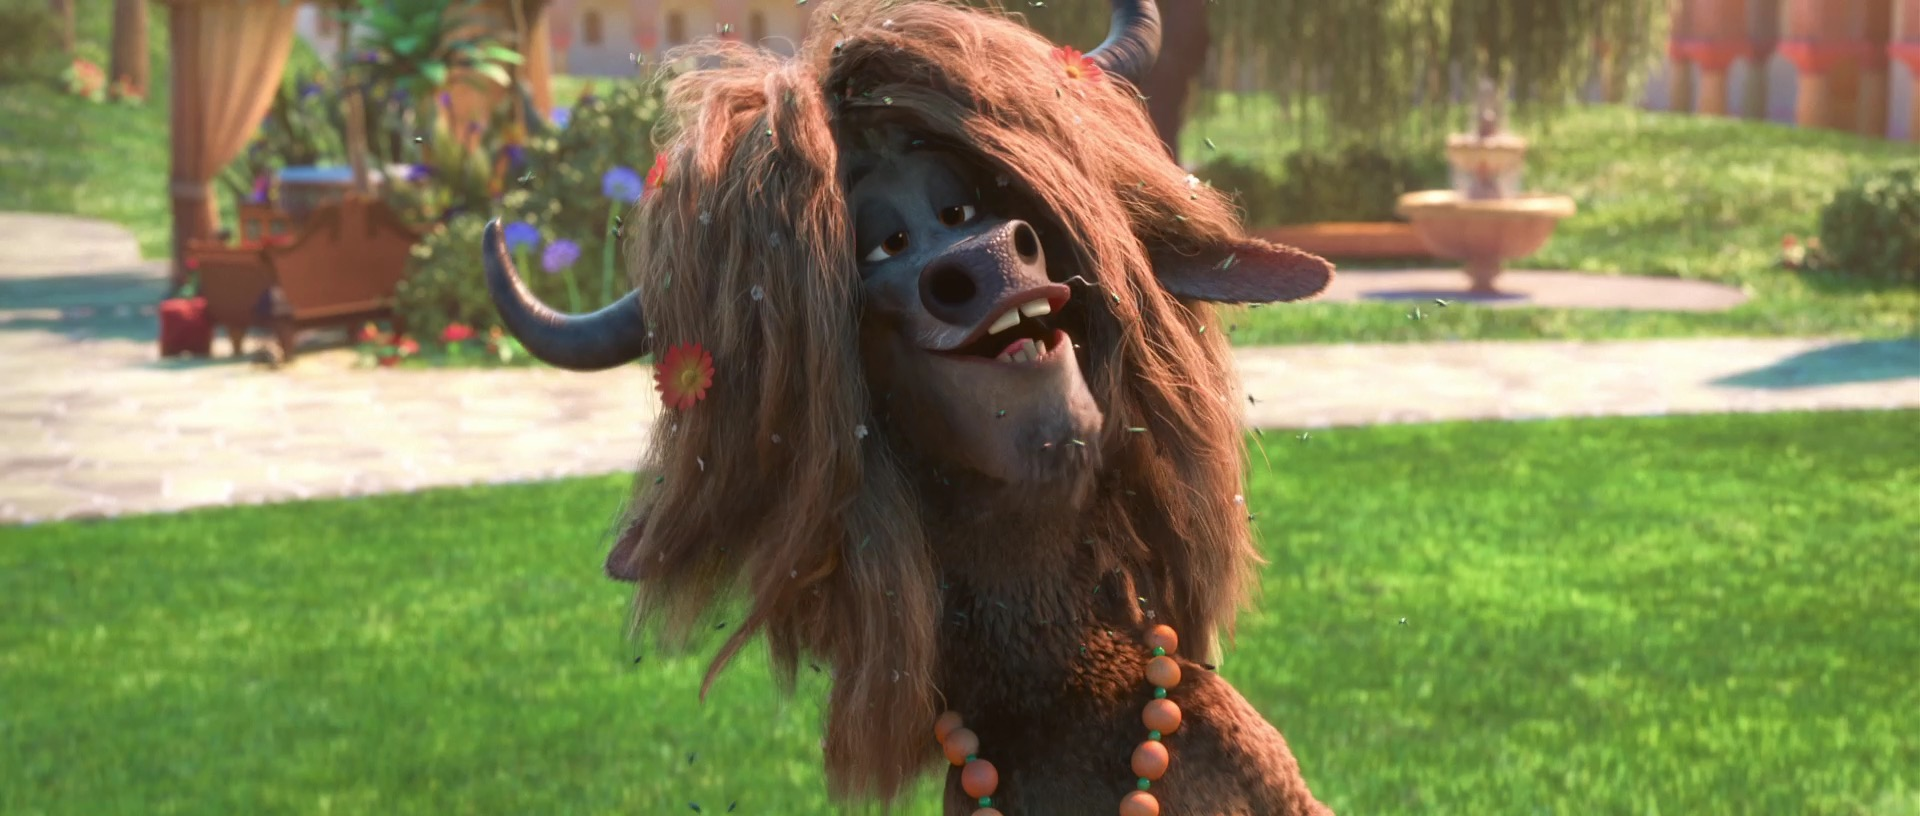
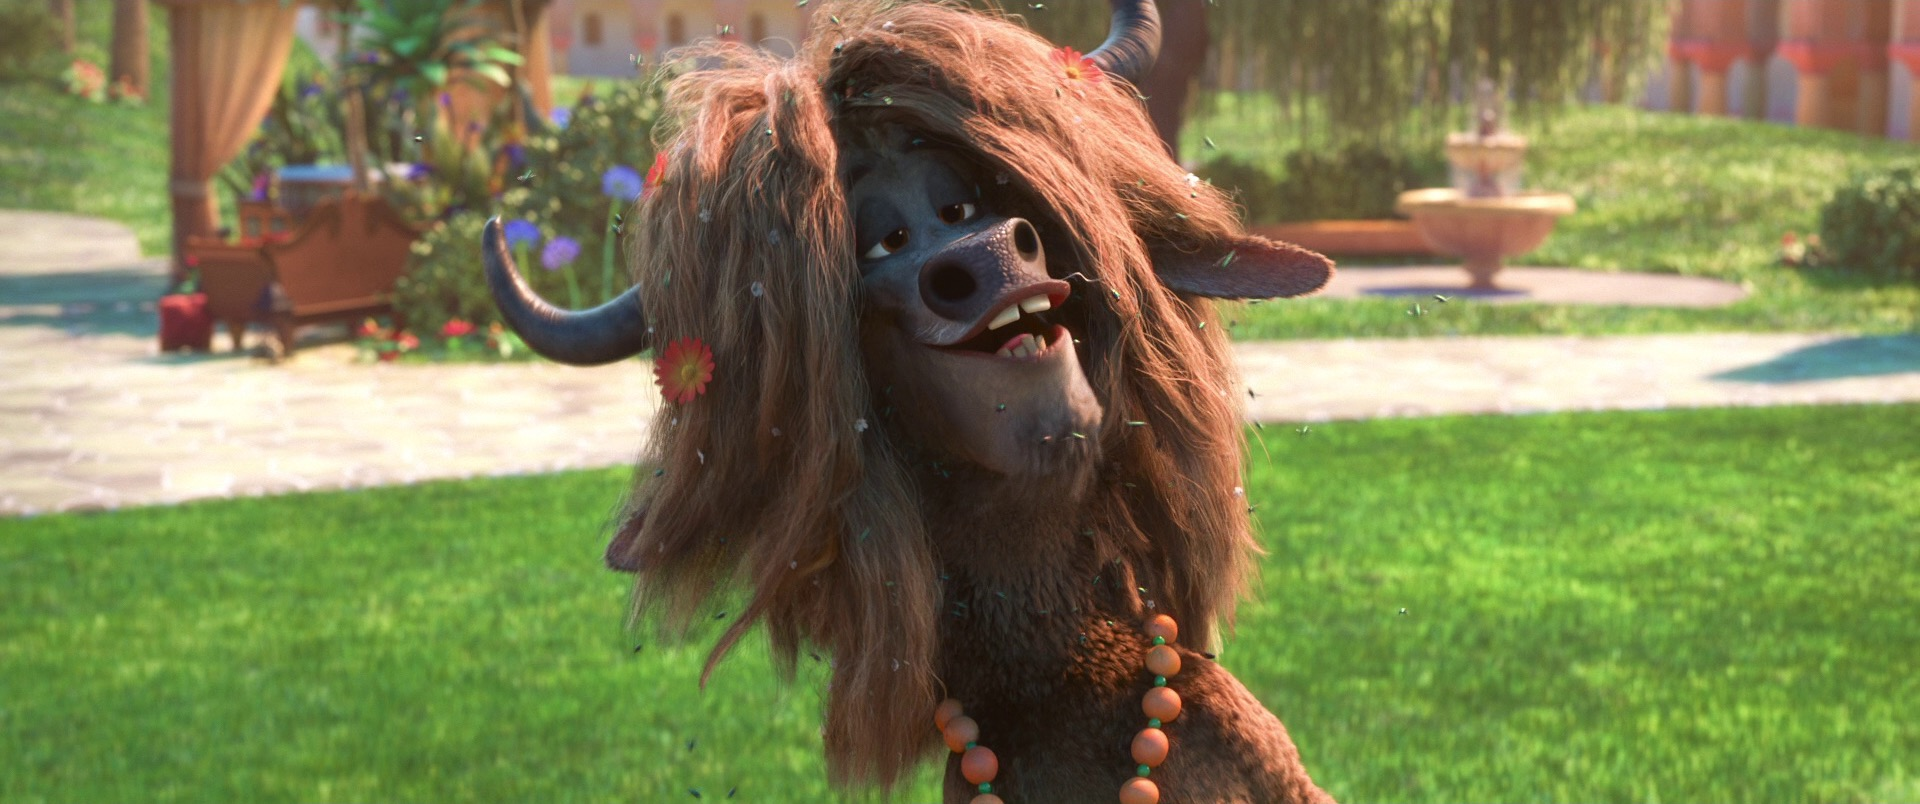
Upgraded image quality in Zootopia post and added some more images

diff --git a/_posts/2016-02-12-zootopia.md b/_posts/2016-02-12-zootopia.md
@@ -11,7 +11,7 @@ Zootopia is a striking film in every way. The story is fantastic and original an
 
 I can't go far into detail here (I'm sure we'll be presenting much more in-depth stuff at SIGGRAPH this year), but I think I can safely say that Zootopia is the most technically advanced animated film ever made to date. The fur and cloth (and cloth on top of fur!) systems on Zootopia are beyond anything I've ever seen, the sets and environments are simply ludicrous in both detail and scale, and of course the shading and lighting and rendering are jaw-dropping. Disney isn't paying me to write this on my personal blog, and I don't write any of this to make myself look grand either. I played only a small role, and really the amazing quality of the film is a testament to the capabilities of the hundreds of artists that actually made the final frames. I'm deeply humbled to see what amazing things great artists can do with the tools that my team makes.
 
-Okay, enough rambling. Here are some stills from the film, 100% rendered with Hyperion, of course. Go see the film on March 4th; these images only scratch the surface in conveying how gorgeous the film is.
+Okay, enough rambling. Here are some stills from the film, 100% rendered with Hyperion, of course. Go see the film; these images only scratch the surface in conveying how gorgeous the film is.
 
 [![]({{site.url}}/content/images/2016/Feb/preview/zoot_01.jpg)]({{site.url}}/content/images/2016/Feb/zoot_01.png)
 
@@ -27,9 +27,13 @@ Okay, enough rambling. Here are some stills from the film, 100% rendered with Hy
 
 [![]({{site.url}}/content/images/2016/Feb/preview/zoot_05.jpg)]({{site.url}}/content/images/2016/Feb/zoot_05.png)
 
+[![]({{site.url}}/content/images/2016/Feb/preview/zoot_40.jpg)]({{site.url}}/content/images/2016/Feb/zoot_40.png)
+
 [![]({{site.url}}/content/images/2016/Feb/preview/zoot_06.jpg)]({{site.url}}/content/images/2016/Feb/zoot_06.png)
 
 [![]({{site.url}}/content/images/2016/Feb/preview/zoot_07.jpg)]({{site.url}}/content/images/2016/Feb/zoot_07.png)
+
+[![]({{site.url}}/content/images/2016/Feb/preview/zoot_16.jpg)]({{site.url}}/content/images/2016/Feb/zoot_16.png)
 
 [![]({{site.url}}/content/images/2016/Feb/preview/zoot_08.jpg)]({{site.url}}/content/images/2016/Feb/zoot_08.png)
 
@@ -40,5 +44,55 @@ Okay, enough rambling. Here are some stills from the film, 100% rendered with Hy
 [![]({{site.url}}/content/images/2016/Feb/preview/zoot_12.jpg)]({{site.url}}/content/images/2016/Feb/zoot_12.png)
 
 [![]({{site.url}}/content/images/2016/Feb/preview/zoot_09.jpg)]({{site.url}}/content/images/2016/Feb/zoot_09.png)
+
+[![]({{site.url}}/content/images/2016/Feb/preview/zoot_33.jpg)]({{site.url}}/content/images/2016/Feb/zoot_33.png)
+
+[![]({{site.url}}/content/images/2016/Feb/preview/zoot_15.jpg)]({{site.url}}/content/images/2016/Feb/zoot_15.png)
+
+[![]({{site.url}}/content/images/2016/Feb/preview/zoot_17.jpg)]({{site.url}}/content/images/2016/Feb/zoot_17.png)
+
+[![]({{site.url}}/content/images/2016/Feb/preview/zoot_18.jpg)]({{site.url}}/content/images/2016/Feb/zoot_18.png)
+
+[![]({{site.url}}/content/images/2016/Feb/preview/zoot_41.jpg)]({{site.url}}/content/images/2016/Feb/zoot_41.png)
+
+[![]({{site.url}}/content/images/2016/Feb/preview/zoot_39.jpg)]({{site.url}}/content/images/2016/Feb/zoot_39.png)
+
+[![]({{site.url}}/content/images/2016/Feb/preview/zoot_19.jpg)]({{site.url}}/content/images/2016/Feb/zoot_19.png)
+
+[![]({{site.url}}/content/images/2016/Feb/preview/zoot_20.jpg)]({{site.url}}/content/images/2016/Feb/zoot_20.png)
+
+[![]({{site.url}}/content/images/2016/Feb/preview/zoot_21.jpg)]({{site.url}}/content/images/2016/Feb/zoot_21.png)
+
+[![]({{site.url}}/content/images/2016/Feb/preview/zoot_31.jpg)]({{site.url}}/content/images/2016/Feb/zoot_31.png)
+
+[![]({{site.url}}/content/images/2016/Feb/preview/zoot_22.jpg)]({{site.url}}/content/images/2016/Feb/zoot_22.png)
+
+[![]({{site.url}}/content/images/2016/Feb/preview/zoot_27.jpg)]({{site.url}}/content/images/2016/Feb/zoot_27.png)
+
+[![]({{site.url}}/content/images/2016/Feb/preview/zoot_23.jpg)]({{site.url}}/content/images/2016/Feb/zoot_23.png)
+
+[![]({{site.url}}/content/images/2016/Feb/preview/zoot_35.jpg)]({{site.url}}/content/images/2016/Feb/zoot_35.png)
+
+[![]({{site.url}}/content/images/2016/Feb/preview/zoot_36.jpg)]({{site.url}}/content/images/2016/Feb/zoot_36.png)
+
+[![]({{site.url}}/content/images/2016/Feb/preview/zoot_37.jpg)]({{site.url}}/content/images/2016/Feb/zoot_37.png)
+
+[![]({{site.url}}/content/images/2016/Feb/preview/zoot_24.jpg)]({{site.url}}/content/images/2016/Feb/zoot_24.png)
+
+[![]({{site.url}}/content/images/2016/Feb/preview/zoot_25.jpg)]({{site.url}}/content/images/2016/Feb/zoot_25.png)
+
+[![]({{site.url}}/content/images/2016/Feb/preview/zoot_28.jpg)]({{site.url}}/content/images/2016/Feb/zoot_28.png)
+
+[![]({{site.url}}/content/images/2016/Feb/preview/zoot_29.jpg)]({{site.url}}/content/images/2016/Feb/zoot_29.png)
+
+[![]({{site.url}}/content/images/2016/Feb/preview/zoot_32.jpg)]({{site.url}}/content/images/2016/Feb/zoot_32.png)
+
+[![]({{site.url}}/content/images/2016/Feb/preview/zoot_34.jpg)]({{site.url}}/content/images/2016/Feb/zoot_34.png)
+
+[![]({{site.url}}/content/images/2016/Feb/preview/zoot_30.jpg)]({{site.url}}/content/images/2016/Feb/zoot_30.png)
+
+[![]({{site.url}}/content/images/2016/Feb/preview/zoot_38.jpg)]({{site.url}}/content/images/2016/Feb/zoot_38.png)
+
+[![]({{site.url}}/content/images/2016/Feb/preview/zoot_26.jpg)]({{site.url}}/content/images/2016/Feb/zoot_26.png)
 
 All images in this post are courtesy of and the property of Walt Disney Animation Studios.
